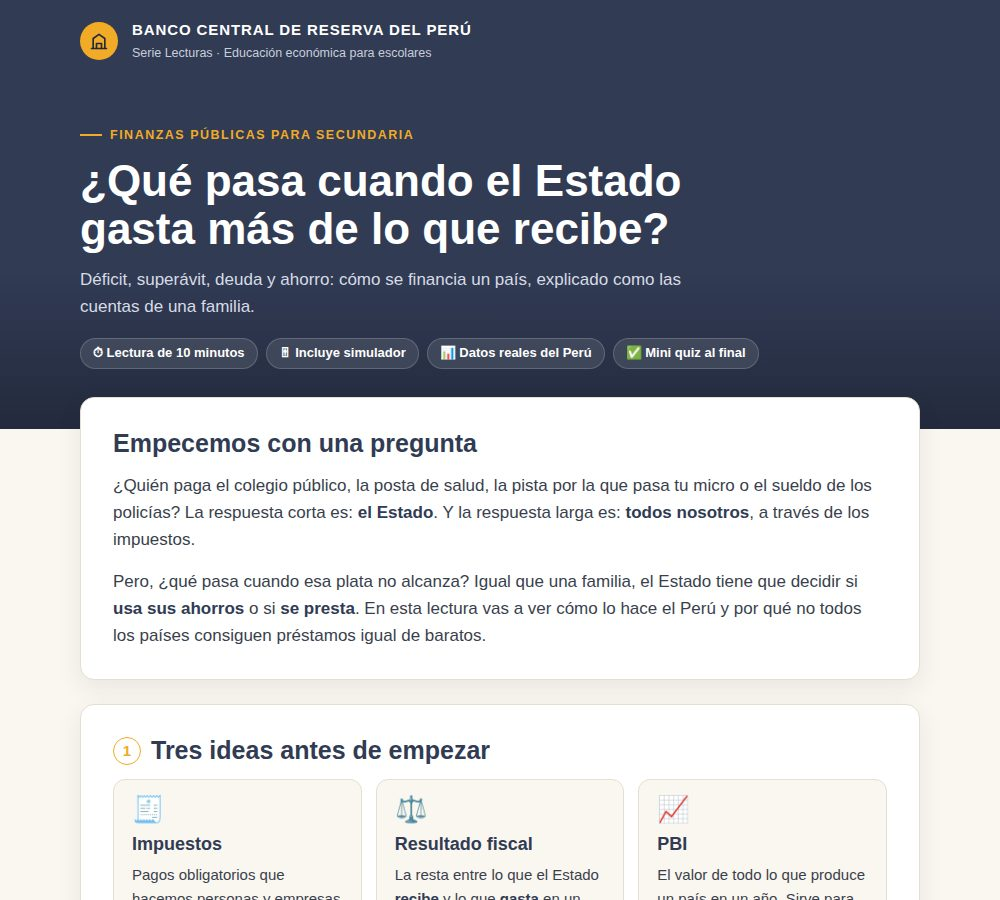
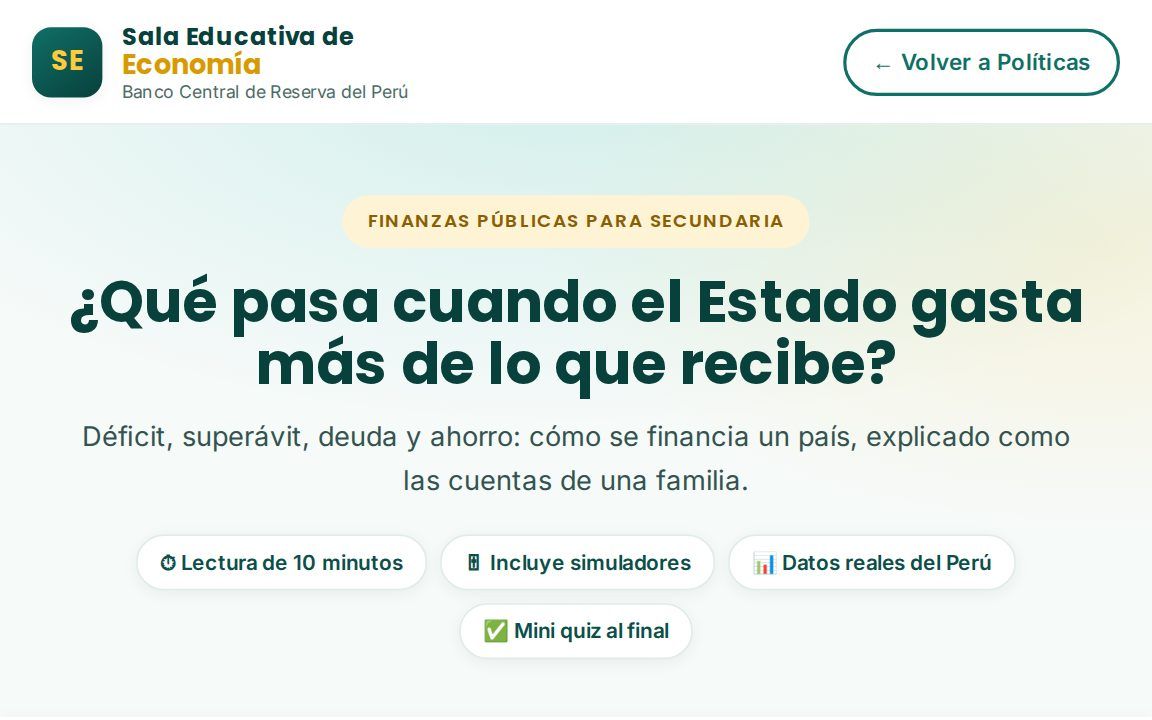
Políticas: actualizar las miniaturas de las lecturas al nuevo diseño
Nuevas capturas de la portada de cada lectura con el encabezado y los colores
de la Sala Educativa. El encuadre ahora tiene la misma proporción que la
tarjeta (16:10), para que el título se lea. Se agrega ?v=2 al src para que
no se muestre la imagen anterior desde la caché.

Claude-Session: https://claude.ai/code/session_01YMmm85HJHDiTT9Gk8PTewn

diff --git a/politicas.html b/politicas.html
@@ -345,7 +345,7 @@
         <a class="resource-card resource-card--lectura reveal" href="lecturas/instrumentacion-politica-monetaria-escolares.html" target="_blank" rel="noopener">
           <div class="resource-card__preview">
             <span class="resource-card__badge">Lectura</span>
-            <img class="resource-card__preview-img" src="assets/recursos-politica/cover-lectura-politica-monetaria.jpg" alt="Primera página de la lectura ¿Cómo hace el BCRP para mover las tasas de interés?" loading="lazy" />
+            <img class="resource-card__preview-img" src="assets/recursos-politica/cover-lectura-politica-monetaria.jpg?v=2" alt="Primera página de la lectura ¿Cómo hace el BCRP para mover las tasas de interés?" loading="lazy" />
           </div>
           <div class="resource-card__body">
             <h3>Lectura: Política Monetaria</h3>
@@ -355,7 +355,7 @@
         <a class="resource-card resource-card--lectura reveal" href="lecturas/deficit-fiscal-escolares.html" target="_blank" rel="noopener">
           <div class="resource-card__preview">
             <span class="resource-card__badge">Lectura</span>
-            <img class="resource-card__preview-img" src="assets/recursos-politica/cover-lectura-deficit-fiscal.jpg" alt="Primera página de la lectura ¿Qué pasa cuando el Estado gasta más de lo que recibe?" loading="lazy" />
+            <img class="resource-card__preview-img" src="assets/recursos-politica/cover-lectura-deficit-fiscal.jpg?v=2" alt="Primera página de la lectura ¿Qué pasa cuando el Estado gasta más de lo que recibe?" loading="lazy" />
           </div>
           <div class="resource-card__body">
             <h3>Lectura: Déficit Fiscal</h3>
